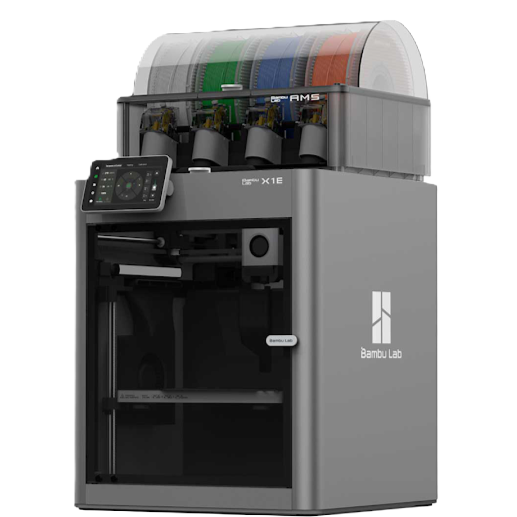
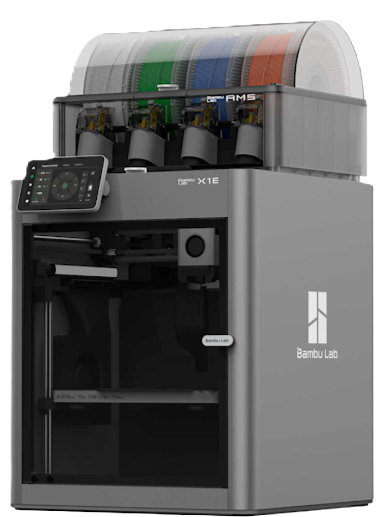
Update landing page and modify minimum model height to 0.8mm

diff --git a/app/page.tsx b/app/page.tsx
@@ -233,10 +233,10 @@ export default async function Home() {
 							</div>
 						</div>
 						<hr style={{ marginBottom: "0px" }} />
-						<div className="grid grid-cols-1 md:grid-cols-3 2xl:grid-cols-5 gap-8 mt-6">
+						<div className="grid 2xl:grid-cols-5 gap-8 mt-6">
 							<div className="out p-4 w-full rounded-md shadow-sm">
 								<div className="w-full text-sm">
-									<Image src="/assets/bambu_x1e_with_ams.png" alt="Bambu Lab A1 3D Printer" width={720} height={720} className="rounded-md mb-4 w-full h-48 object-cover object-bottom" />
+									<Image src="/assets/bambu_x1e_with_ams.png" alt="Bambu Lab A1 3D Printer" width={720} height={720} className="rounded-md mb-4 object-cover object-bottom px-6" style={{ aspectRatio: "auto 3/4" }} />
 									<h2 className="text-lg text-pnw-gold font-semibold">FDM Bambu Lab</h2>
 									<p className="mt-2">Perfect for prototyping medium-strength parts, offering a cost-effective solution for functional prototypes and design testing.</p>
 								</div>
@@ -244,7 +244,7 @@ export default async function Home() {
 
 							<div className="bg-background p-4 w-full rounded-md">
 								<div className="w-full opacity-75 text-sm">
-									<Image src="/assets/mars4ultra.png" alt="Mars 4 Ultra Printer" width={720} height={720} className="rounded-md mb-4 w-full h-48 object-cover object-bottom" />
+									<Image src="/assets/mars4ultra.png" alt="Mars 4 Ultra Printer" width={720} height={720} className="rounded-md mb-4 object-cover object-bottom px-6" style={{ aspectRatio: "auto 3/4" }} />
 									<h2 className="text-lg font-semibold">Resin 3D Printing</h2>
 									<p className="mt-2">Coming Spring 2025</p>
 									<p className="mt-2">Optimal for creating detailed and smooth-surfaced models, ideal for small intricate parts.</p>
@@ -253,7 +253,7 @@ export default async function Home() {
 
 							<div className="bg-background p-4 w-full rounded-md">
 								<div className="w-full opacity-75 text-sm">
-									<Image src="/assets/metalx.png" alt="Metal X Printer" width={720} height={720} className="rounded-md mb-4 w-full h-48 object-cover object-bottom" />
+									<Image src="/assets/metalx.png" alt="Metal X Printer" width={720} height={720} className="rounded-md mb-4 object-cover object-bottom px-6" style={{ aspectRatio: "auto 3/4" }} />
 									<h2 className="text-lg font-semibold">Metal FFF Metal X</h2>
 									{/* <p className="mt-2 flex text-nowrap gap-2">Provided by <Image className="inline w-full h-fit opacity-75" src={"/assets/logos/markforged.png"} alt={"Markforged"} width={120} height={120} /></p> */}
 									<p className="mt-2">Coming Spring 2025</p>
@@ -261,11 +261,9 @@ export default async function Home() {
 								</div>
 							</div>
 
-							{/* <div className="bg-background p-4 w-full rounded-md"></div> */}
-
 							{/* <div className="bg-background p-4 w-full rounded-md">
 								<div className="w-full opacity-75 text-sm">
-									<Image src="/assets/fuse_1_store_thumb_2x_1.webp" alt="FormLabs Fuse 1+ 30W" width={720} height={720} className="rounded-md mb-4 w-full h-48 object-cover" />
+									<Image src="/assets/fuse_1_store_thumb_2x_1.png" alt="FormLabs Fuse 1+ 30W" width={720} height={720} className="rounded-md mb-4 object-cover px-4" style={{ aspectRatio: "auto 3/4" }} />
 									<h2 className="text-lg font-semibold">SLS Fuse 1+ 30W</h2>
 									<p className="mt-2">Looking for Funding</p>
 									<p className="mt-2">Designed for industrial-quality production with a range of high-performance nylon powders.</p>

diff --git a/app/components/RequestPartForm.tsx b/app/components/RequestPartForm.tsx
@@ -382,7 +382,7 @@ export function RequestPartForm({
 
 														console.log(maxValue);
 
-														if (maxValue < 10 || (p.Geometry.boundingBox!.max.z - p.Geometry.boundingBox!.min.z <= 3)) {
+														if (maxValue < 10 || (p.Geometry.boundingBox!.max.z - p.Geometry.boundingBox!.min.z <= 0.8)) {
 															setTooSmallPromptCount(tooSmallPromptCount + 1);
 															toast.error(<span>The model {p.ModelName} is too small. Ensure you have exported the model using Millimeters!<br />Refer to <Link target="_blank" href={"https://youtu.be/dYo6kzmtLw0?si=kGcNq7dc2Hynqad_&t=375"} className="underline">Export STL in Millimeters using Onshape</Link></span>);
 															return false;

diff --git a/app/dashboard/user/[id]/RequestDetails.tsx b/app/dashboard/user/[id]/RequestDetails.tsx
@@ -352,7 +352,7 @@ export default function RequestDetails({
 									</div>
 								</div>
 
-								<button className="text-sm font-light text-left " onClick={() => handlePrint()}>Download Invoice<FaRegFilePdf className="fill-white ml-2 mb-0.5 inline"></FaRegFilePdf></button>
+								{!isPaid && <button className="text-sm font-light text-left w-full" onClick={() => handlePrint()}>Download Invoice<FaRegFilePdf className="fill-white ml-2 mb-0.5 inline"></FaRegFilePdf></button>}
 
 								<form action={payFormAction}>
 									<input
